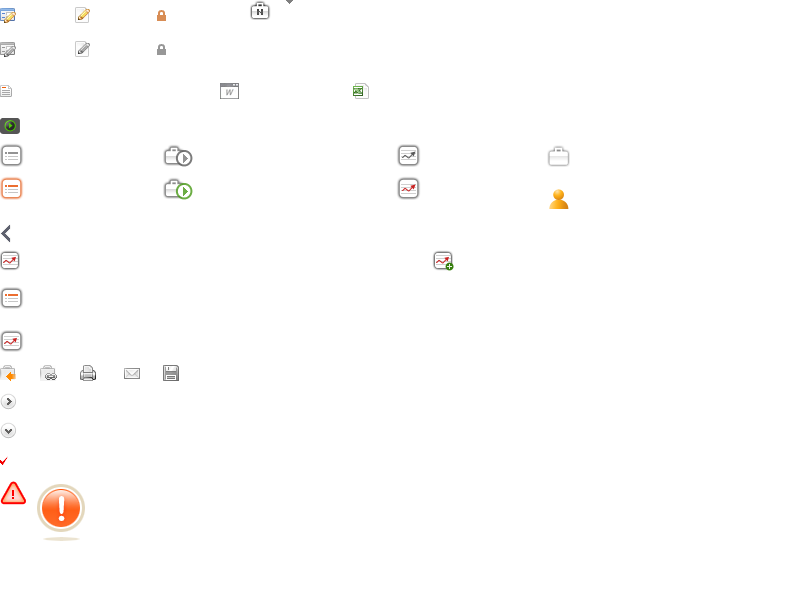
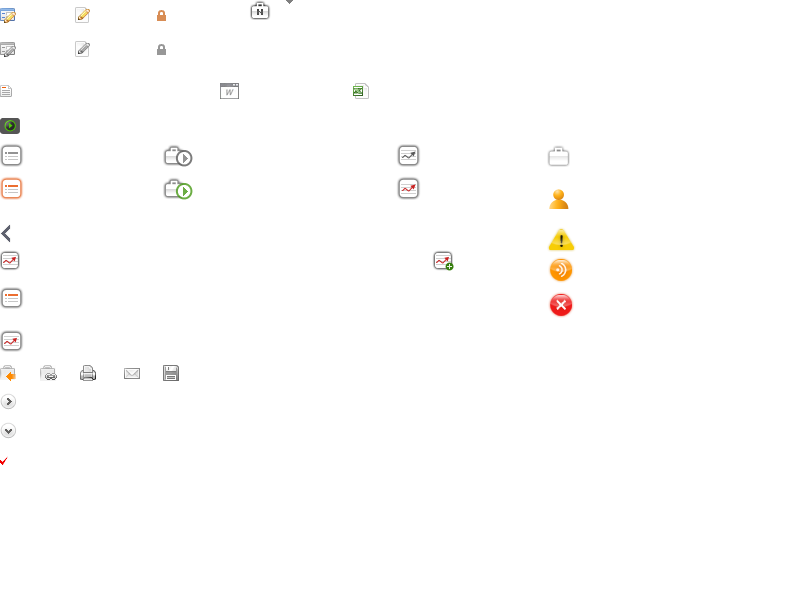
pop

Changed region(s): [[0.0, 0.81, 0.125, 0.9], [0.6875, 0.36, 0.7188, 0.54]]

diff --git a/WebContent/css/pop.css b/WebContent/css/pop.css
@@ -1,7 +1,8 @@
 @charset "utf-8";
 /* CSS Document */
 
-.pop_corner_all{ border-top-left-radius: 4px; border-top-right-radius: 4px; border-bottom-left-radius: 4px; border-bottom-right-radius: 4px; border: 1px solid #c7c7c7; background-color:#FFF; padding-top: 10px;}
+.pop_corner_all{ border-top-left-radius: 4px; border-top-right-radius: 4px; border-bottom-left-radius: 4px; border-bottom-right-radius: 4px; border: 1px solid #c7c7c7; background-color:#FFF; padding-top: 10px; -webkit-box-shadow: 0px 2px 10px #505050;}
+.smart_pop_section {width:425px; border: 1px solid #c7c7c7; background-color:#FFF;}
 .pop_section_500 {width:500px; border: 1px solid #c7c7c7; background-color:#FFF;}
 .pop_section_400 {width:400px; border: 1px solid #c7c7c7; background-color:#FFF;}
 .pop_section_300 {width:300px; border: 1px solid #c7c7c7; background-color:#FFF;}
@@ -10,23 +11,19 @@
 .pop_title {font-weight:bold; font-size:14px; position:absolute; color:#454545;}
 
 
-/* 알림 */
-.pop_notice_section {border: 1px solid #c7c7c7;}
-.ico_notice {background: url("../images/body_icon.png") no-repeat scroll 0 -480px transparent; display:block; height:23px; text-align: left; padding:0 0 0 30px; position:relative; font-weight:bold; padding-bottom:10px;}
-.pop_message_h {padding:10px 0;}
 
+/* Layer popup list */
+.pop_list_area {border: 1px solid #c7c7c7; text-align: left; background-color: #FFF; margin-top: 1px; -webkit-box-shadow: 0px 2px 10px #505050;}
+.pop_list_area li .dep {padding:4px 0 4px 10px; display:block; overflow: hidden; vertical-align:middle; position:relative; top:50%;}
 
-/* popup 카테고리 */
-.pop_list_area {border: 1px solid #c7c7c7; text-align: left; background-color: #FFF; margin-top: 1px; -webkit-box-shadow: 0px 2px 10px #505050}
-.pop_list_area li a {padding:4px 0 4px 10px; display:block; overflow: hidden; vertical-align:middle; position:relative; top:50%;}
+.pop_list_area li .dep:hover {display:block; background-color:#fffccd;}
 
-.pop_list_area li a:hover {display:block; background-color:#fffccd;}
+.pop_list_area li .dep .menu_2dep li .dep {display:block; overflow: hidden; vertical-align:middle; position:relative; top:50%;}
+.pop_list_area li .dep .menu_2dep li .dep:hover {display:block; background-color:#fffccd;}
 
-.pop_list_area li .menu_2dep li a {padding:2px 0 2px 24px; display:block; overflow: hidden; vertical-align:middle; position:relative; top:50%;}
-.pop_list_area li .menu_2dep li a:hover {display:block; background-color:#fffccd;}
+.pop_list_area li .dep .menu_2dep li .dep .menu_2dep li .dep {padding:2px 0 2px 34px; display:block; overflow: hidden; vertical-align:middle; position:relative; top:50%;}
+.pop_list_area li .dep .menu_2dep li .dep .menu_2dep li .dep:hover {display:block; background-color:#fffccd;}
 
-.pop_list_area li .menu_2dep li div li a {padding:2px 0 2px 34px; display:block; overflow: hidden; vertical-align:middle; position:relative; top:50%;}
-.pop_list_area li .menu_2dep li div li a:hover {display:block; background-color:#fffccd;}
 
 /*popup information*/
 .pop_i_info {border:1px solid #acacac; background-color:#242324; width:273px; position:absolute; top:33px; left:106px; padding-bottom:8px; z-index:39; color:#ececec;}
@@ -54,4 +51,13 @@ a:hover .pop_btn_x {background-color:#e5e5e5;}
 .pop_title_space {padding:7px 0; overflow:hidden;border-bottom:2px solid #999}
 .pop_title_space .title_work {background: url("../images/body_icon.png") no-repeat scroll -547px -146px transparent;font-size:14px; font-weight:bold; padding: 0 8px 0 28px; float:left; line-height: 20px;}
 .pop_title_space .title_user {background: url("../images/body_icon.png") no-repeat scroll -547px -187px transparent;font-size:14px; font-weight:bold; padding: 0 8px 0 28px; float:left; line-height: 20px;}
-.pop_title_space.w_margin {margin: 0 20px;} 
+.pop_title_space.w_margin {margin: 0 20px;}
+
+
+/* Smart Pop */
+.pop_notice_section {padding-left: 6px; text-align: left;}
+.pop_message_h {padding:10px 0;}
+
+.ico_pop_Info {background: url("../images/body_icon.png") no-repeat scroll -547px -257px transparent; display: block; font-size: 14px; font-weight: bold; height: 26px; line-height: 20px; padding: 4px 0 0 33px; text-align: left;}
+.ico_pop_Warn {background: url("../images/body_icon.png") no-repeat scroll -547px -227px transparent; display: block; font-size: 14px; font-weight: bold; height: 26px; line-height: 20px; padding: 3px 0 0 33px; text-align: left;}
+.ico_pop_Error {background: url("../images/body_icon.png") no-repeat scroll -547px -291px transparent; display: block; font-size: 14px; font-weight: bold; height: 26px; line-height: 20px; padding: 4px 0 0 33px; text-align: left;}

diff --git a/WebContent/js/sw/sw-popup.js b/WebContent/js/sw/sw-popup.js
@@ -125,8 +125,8 @@ smartPop = {
 	showInfo : function(infoType, message, onClose){
 		if(infoType !== smartPop.INFO && infoType !== smartPop.WARN && infoType !== smartPop.ERROR) infoType = smartPop.INFO;
 		smartPop.overlayDark();
-		$('<div id="sw_pop_show_info" style="z-index:10001; position:absolute;" class="pop_corner_all pop_section_300">' + 
-					'<div class="form_contents margin_t10">' + 
+		$('<div id="sw_pop_show_info" style="z-index:10001; position:absolute;" class="pop_corner_all smart_pop_section">' + 
+					'<div class="form_contents">' + 
 						'<div class="ico_pop_' + infoType + '">' + smartMessage.get('popType'+infoType) + '</div>' +
 					 	'<div class="pop_notice_section">' + message + '</div>' +
 					 '</div>' +
@@ -154,7 +154,7 @@ smartPop = {
 	
 	confirm : function(message, onOk, onCancel){
 		smartPop.overlayDark();
-		$('<div id="sw_pop_confirm" class="pop_corner_all pop_section_300" style="z-index:10001; position:absolute;">' + 
+		$('<div id="sw_pop_confirm" class="pop_corner_all smart_pop_section" style="z-index:10001; position:absolute;">' + 
 					'<div class="form_contents margin_t10">' + 
 					 	'<div class="pop_notice_section">' + message + '</div>' +
 					 '</div>' +

diff --git a/WebContent/css/layout.css b/WebContent/css/layout.css
@@ -323,7 +323,8 @@ a .btn_all_works:hover,
 /*.srch_list li a:hover {display:block; background-color:#fffccd; color:#454545;}*/
 .srch_list li.sw_hover, .srch_list_nowid li a:hover {display:block; background-color:#fffccd; color:#454545;}
 .srch_list .nav_subtitl_area {display: inline; float: left; position: relative; width: 410px;}
-.srch_list_nowid {z-index:100; position:absolute; margin-top: 1px; -webkit-box-shadow: 0px 2px 10px #505050; background:#FFF; border: 1px solid #c7c7c7; font-family: '돋움',dotum,Helvetica,sans-serif;} /* no width*/
+.srch_list_nowid {z-index:100; position:absolute; margin-top: 1px; -webkit-box-shadow: 0px 2px 10px #505050; background:#FFF; border: 1px solid #c7c7c7; font-family: '돋움',dotum,Helvetica,sans-serif;} /* */
+
 
 /* nav검색- 자동 완성어 list */
 .nav_srch_list {z-index:100; position:absolute; width:192px; margin:0 0 0 10px; margin-top:-1px;-webkit-box-shadow: 0px 2px 10px #505050; background-color:#222; border: 1px solid #555;}

diff --git a/WebContent/css/detail.css b/WebContent/css/detail.css
@@ -65,7 +65,7 @@ a .repl_write:hover {background: url("../images/header_nico.png") no-repeat 0 -4
 .list_contents table .r_line {border-right:1px solid #ccc;}
 .list_contents table .tit_bg {background: url("../images/bg_thGradient.gif") 0 100% repeat-x}
 .list_contents table .tit_bg th{border-bottom:1px solid #ccc}
-.list_contents table th {text-align:center; padding:0 5px;}
+.list_contents table th {text-align:center; padding:5px 5px 0;}
 .list_contents table td {padding-left:10px; }
 .po_left{display:inline-block}
 .js_work_report_list_box{width:170px}

diff --git a/WebContent/css/default.css b/WebContent/css/default.css
@@ -145,7 +145,7 @@ mark, rp, rt, ruby, summary, time {
      display: inline;
 }
 
-.float_left {float:left;width:33%}
+.float_left {float:left; width:33%}
 .float_left_nowidth{float:left;}
 .float_right {float:right;}
 .center {text-align:center;}
